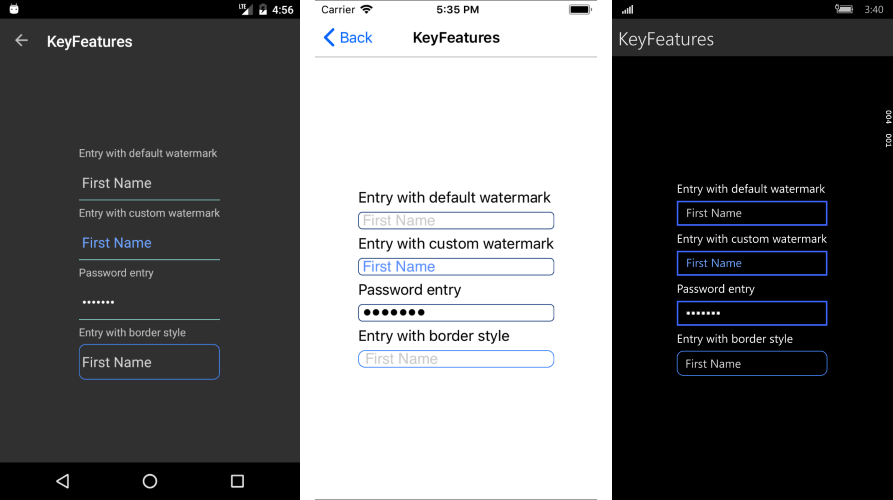
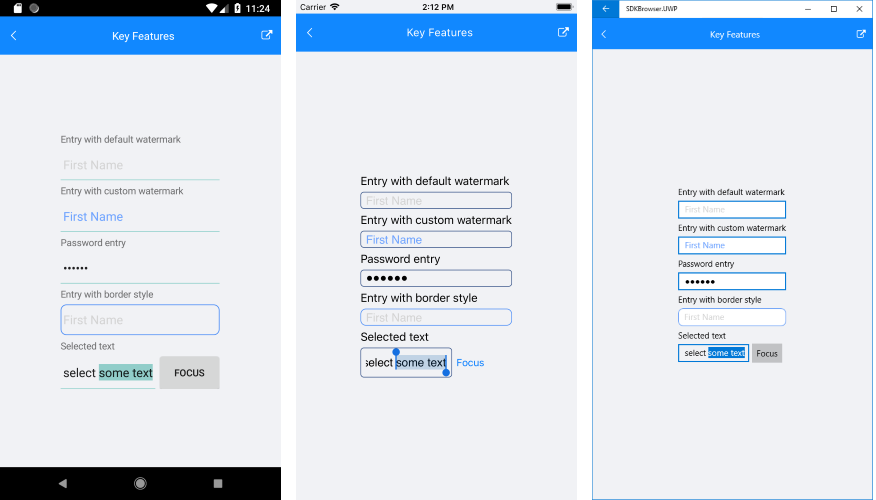
Entry Docs Updates

diff --git a/controls/entry/entry-getting-started.md b/controls/entry/entry-getting-started.md
@@ -1,0 +1,49 @@
+---
+title: Getting Started
+page_title: Getting Started
+position: 1
+slug: entry-getting-started
+---
+
+# Getting Started
+   
+This example will guide you through the steps needed to add a basic **RadEntry** control in your application.
+
+>Before you proceed, please, take a look at these articles and follow the instructions to set up your app:
+>
+>- [Setup on Windows]({%slug getting-started-windows%})
+>- [Setup on Mac]({%slug getting-started-mac%})
+
+## Required Telerik Assemblies
+
+| Platform | Assemblies |
+| -------- | ---------- |
+| Portable | Telerik.XamarinForms.Common.dll<br/>Telerik.XamarinForms.Input.dll |
+| Android  | Telerik.Xamarin.Android.Common.dll <br/>Telerik.Xamarin.Android.Data.dll <br/>Telerik.Xamarin.Android.Input.dll <br/>Telerik.Xamarin.Android.List.dll <br/> Telerik.Xamarin.Android.Primitives.dll <br/>Telerik.XamarinForms.Common.dll <br/>Telerik.XamarinForms.Input.dll |
+| iOS      | Telerik.Xamarin.iOS.dll <br/>Telerik.XamarinForms.Common.dll <br/>Telerik.XamarinForms.Input.dll |
+| UWP      | Telerik.Core.dll <br/>Telerik.Data.dll <br/>Telerik.UI.Xaml.Controls.Data.UWP.dll <br/> Telerik.UI.Xaml.Input.UWP.dll <br/>Telerik.UI.Xaml.Primitives.UWP.dll <br/>Telerik.XamarinForms.Common.dll <br/>Telerik.XamarinForms.Input.dll <br/>|
+
+> The path of the assemblies is relative to the `Binaries` folder that is located in the installation folder of the controls. The default location is: `C:\Program Files (x86)\Progress\Telerik UI for Xamarin RX XXX\Binaries`.
+>
+> All binaries built for a specific platform are placed in a folder named after that platform.
+
+## Example
+
+Once your application is correctly set, you are ready to add a **RadEntry** control to the page:
+
+<snippet id='entry-getting-started-xaml'/>
+
+In addition to this you need to add the following namespace:
+
+<snippet id='xmlns-telerikinput'/>
+<snippet id='ns-telerikinput'/>
+
+Here is the result:
+
+![Entry Getting Started Example](images/entry_getting_started.png)
+
+>important The **SDK Browser** and **QSF** applications contain different examples that show RadEntry's main features. You can find the applications in the **Examples** and **QSF** folders of your local **Telerik UI for Xamarin** installation.
+
+## See Also
+
+- [Key Features]({% slug entry-key-features%})

diff --git a/controls/entry/entry-key-features.md b/controls/entry/entry-key-features.md
@@ -1,7 +1,7 @@
 ---
 title: Key Features
 page_title: Key Features
-position: 0
+position: 2
 slug: entry-key-features
 ---
 
@@ -37,9 +37,21 @@ And then apply that Style to the Entry instance:
 
 <snippet id='entry-features-borderstyle'/>
 
+## Text Selection
+
+The **CursorPosition** property can be used to set or return the position at which the next character will be inserted into the Entry control. In addition, **the SelectionLength** property can be used to set/return the length of text selection within the Entry. 
+
+The next snippet shows how both could be applied in order to preselect part of the Text of the Entry when the control receives the focus:
+
+<snippet id='entry-features-textselection' />
+
+And the Clicked event handler:
+
+<snippet id='entry-features-textselection-code' />
+
 Here is the end result:
 
-![Entry Key Features Example](../images/entry_key_features.png)
+![Entry Key Features Example](images/entry_key_features.png)
 
 ## See Also
 
